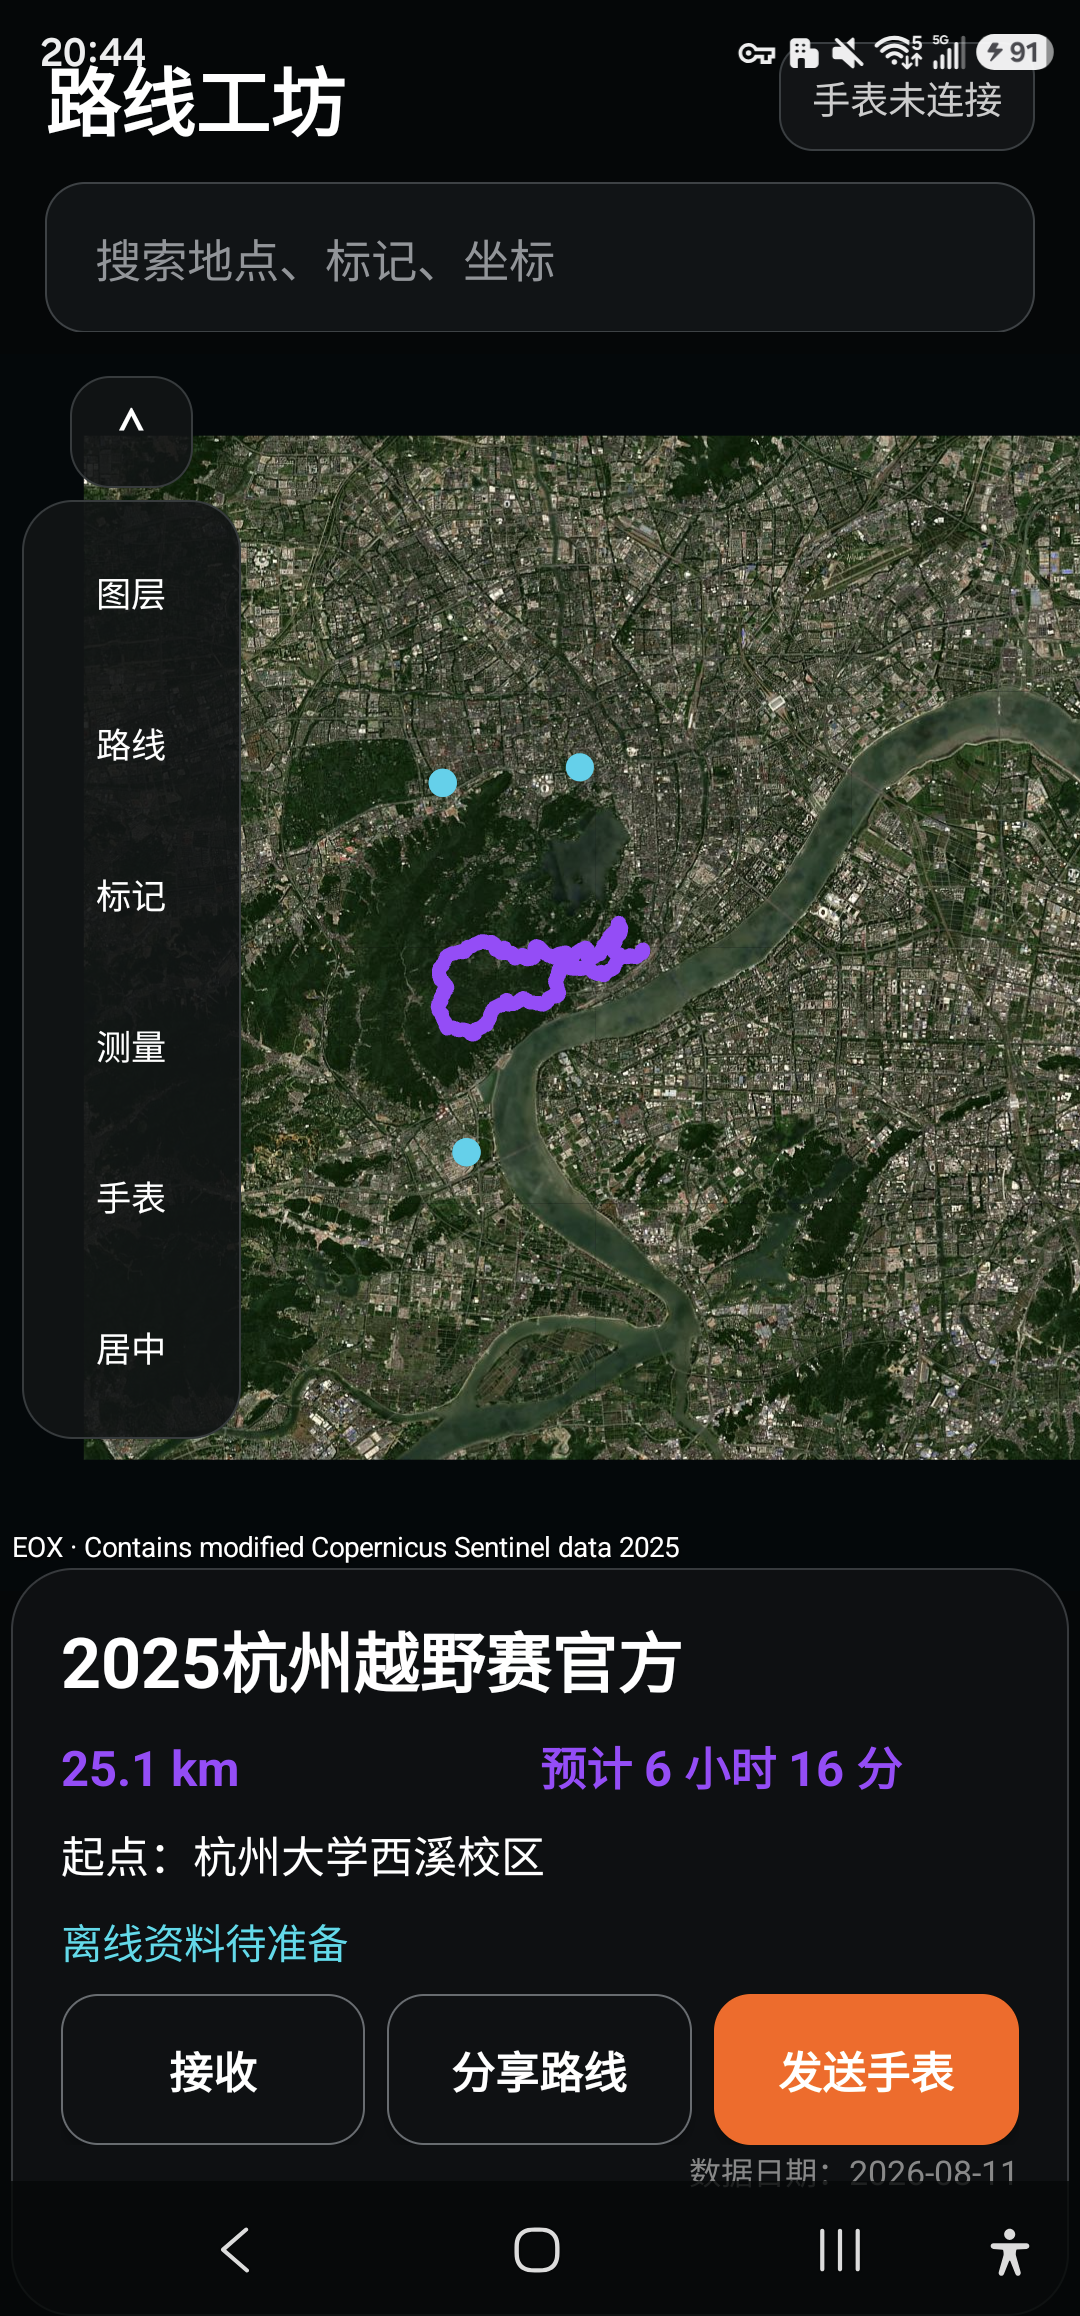
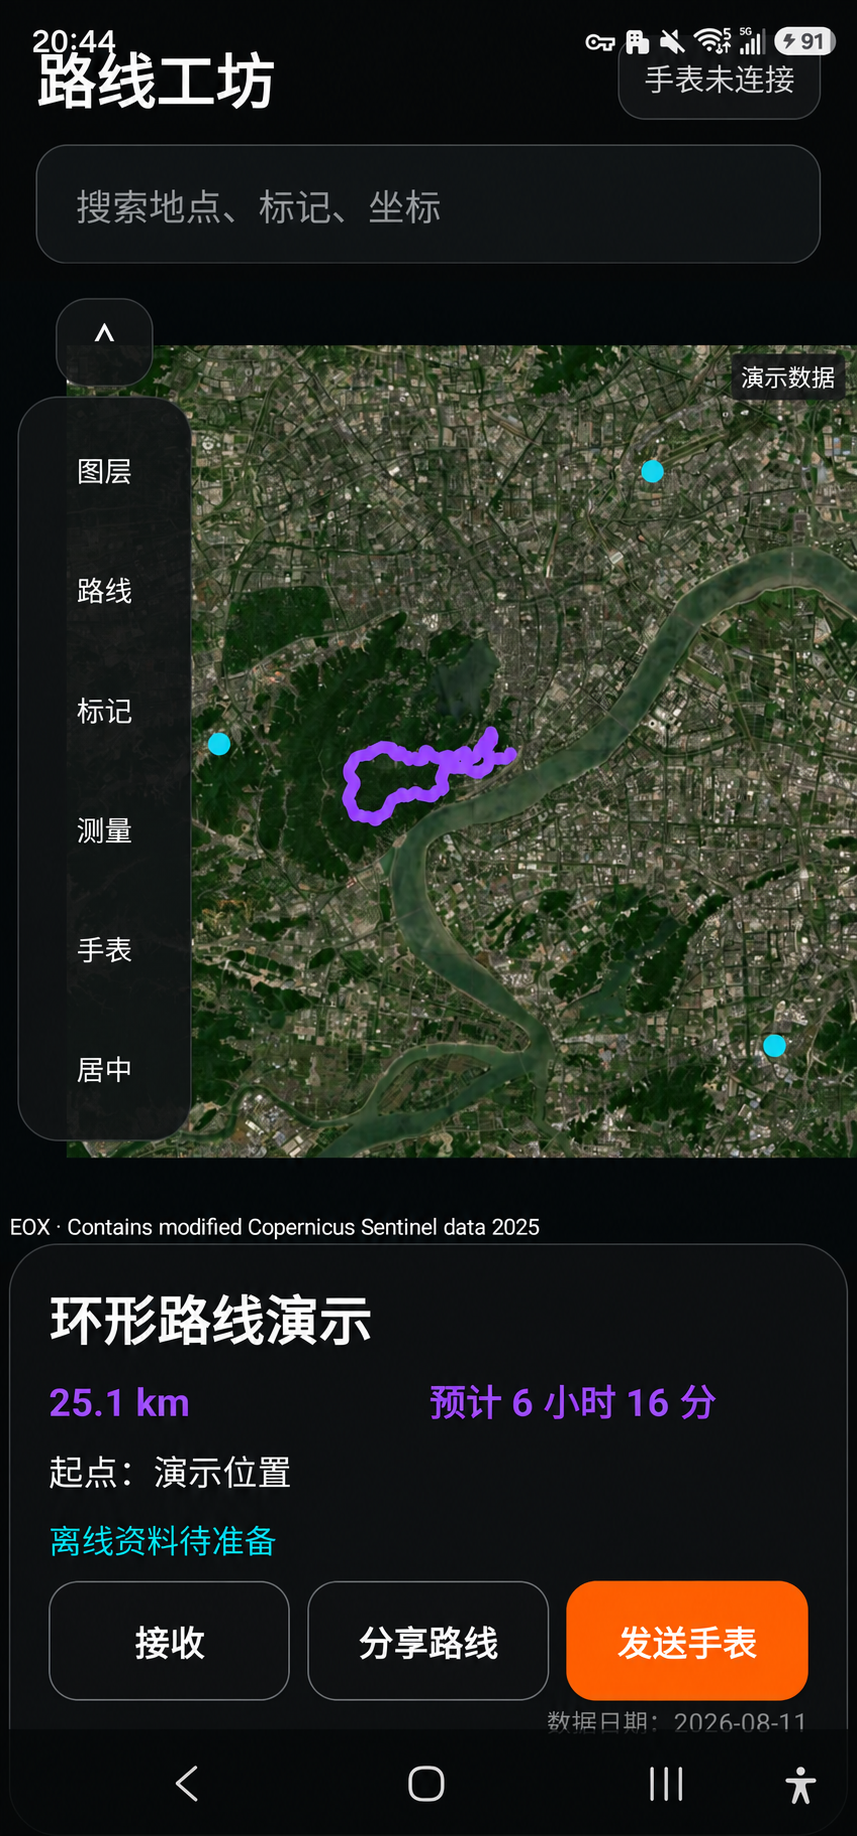
Replace real map markers and routes with labeled demonstration data

diff --git a/docs/USER_MANUAL_ZH.md b/docs/USER_MANUAL_ZH.md
@@ -2,6 +2,8 @@
 
 适用：手表 0.20.39、手机 0.20.26-companion。发布整理日期：2026-10-25。
 
+图片说明：界面基于历史真机截图，公开版本保留环形路线，其余地图圆点、非环形连线及具体起点名称经过演示化处理。随机演示标点和路径不对应真实位置或活动，不可用作实际导航。
+
 ## 1. 下载与准备
 
 到 [最新 Release](https://github.com/yzgpk2002/watchnav/releases/latest) 下载手机 APK、手表 APK，以及需要的地图资源。手机需要 Android 11 或以上、arm64；手表需要 Android 11 / API 30 或以上的 Wear OS，主要测试设备是 Galaxy Watch7。华为非 Wear OS 手表不能安装本 APK。

diff --git a/CHANGELOG.md b/CHANGELOG.md
@@ -9,6 +9,7 @@
 - 补齐双端图文安装/使用手册、地图资源来源与再分发边界、发布附件校验。
 - BRouter 必需源码及 profiles 纳入仓库，记录上游提交与 MIT 许可证，解除外部同级目录依赖。
 - APK、可分发地图样本和离线文档通过 GitHub Release 提供；设备轨迹、个人标记、录音、数据库、密钥与本地 SDK 配置不入库。
+- 扩写仓库中文简介；公开文档地图保留环形路线，其余标点和非环形路线改为随机演示数据，并更新离线手册与校验清单。
 
 ## [0.20.39] - 2026-08-17
 

diff --git a/docs/RELEASE_v0.20.39.md b/docs/RELEASE_v0.20.39.md
@@ -4,6 +4,8 @@
 
 本应用源于中国大陆国行三星 Watch 的独立离线地图需求，需要自行侧载。请把 `phone` APK 安装到手机，把 `watch` APK 安装到 Wear OS 手表。
 
+文档图片更新：地图保留环形路线，其余位置圆点、非环形连线与具体起点名称已改为随机演示数据。本次图片和手册更新不改变 APK 版本或签名。
+
 ## 下载与安装
 
 - `WatchNav-watch-v0.20.39.apk`：手表端。
